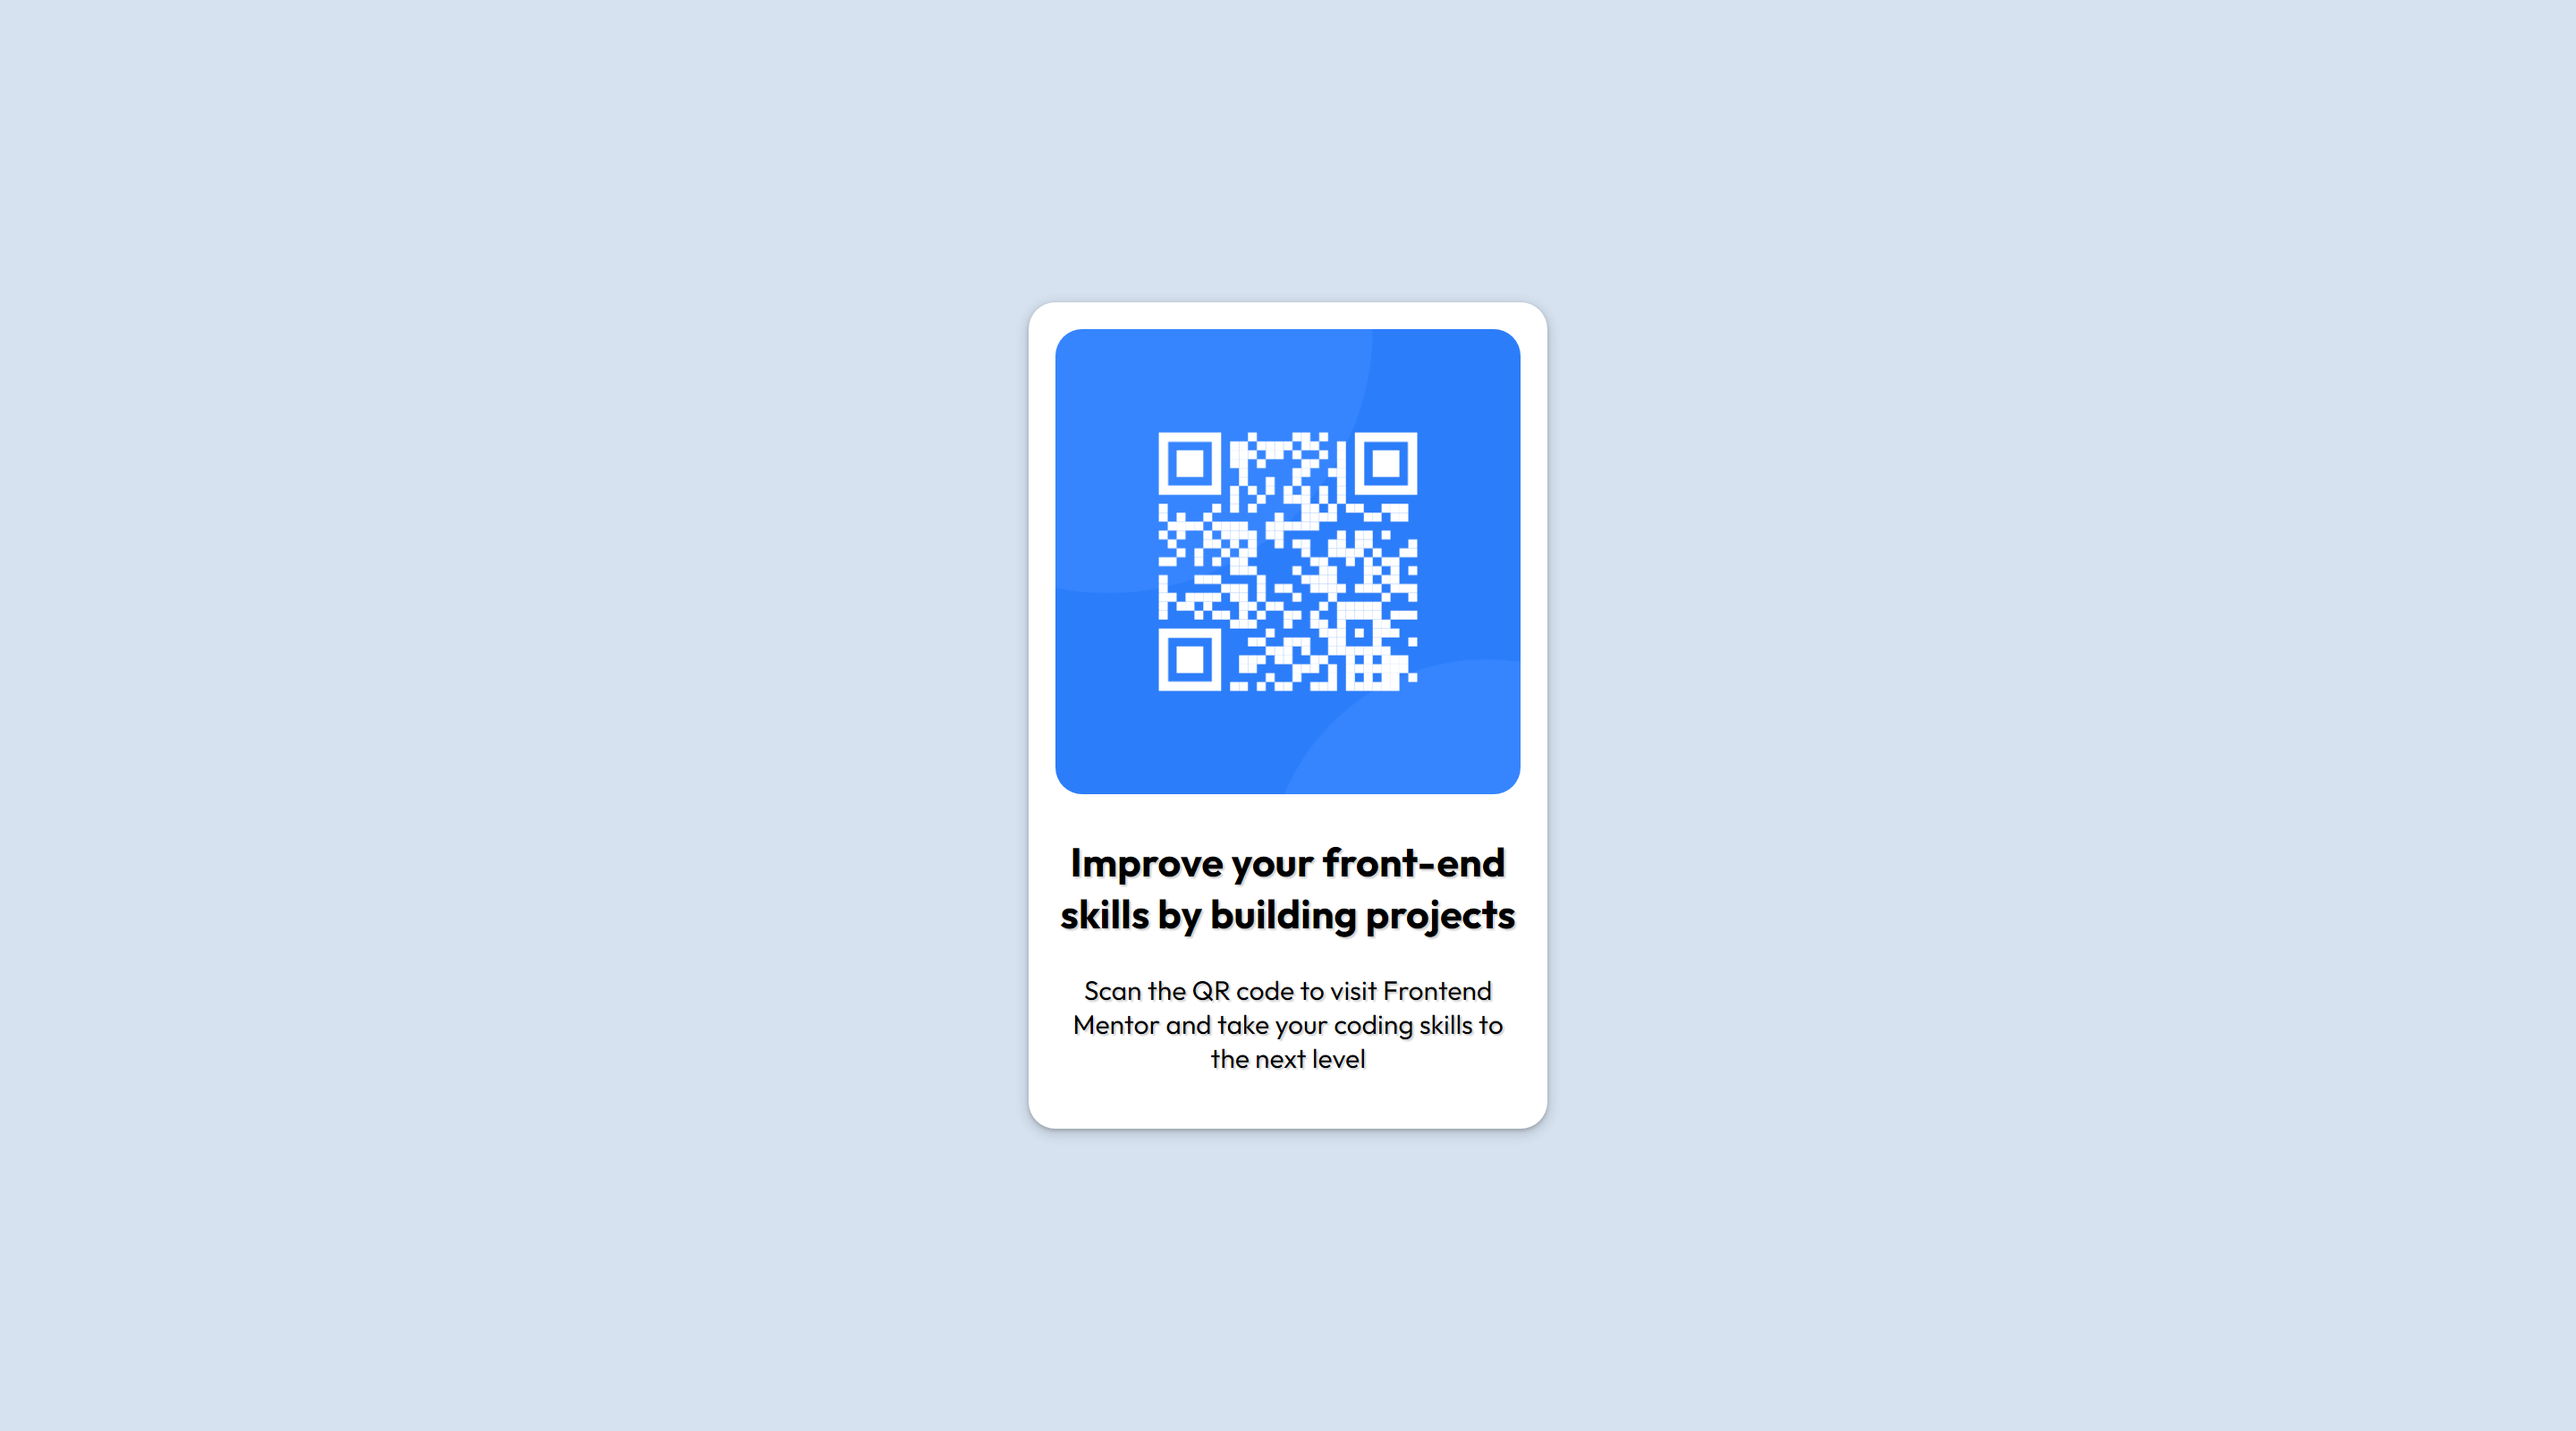
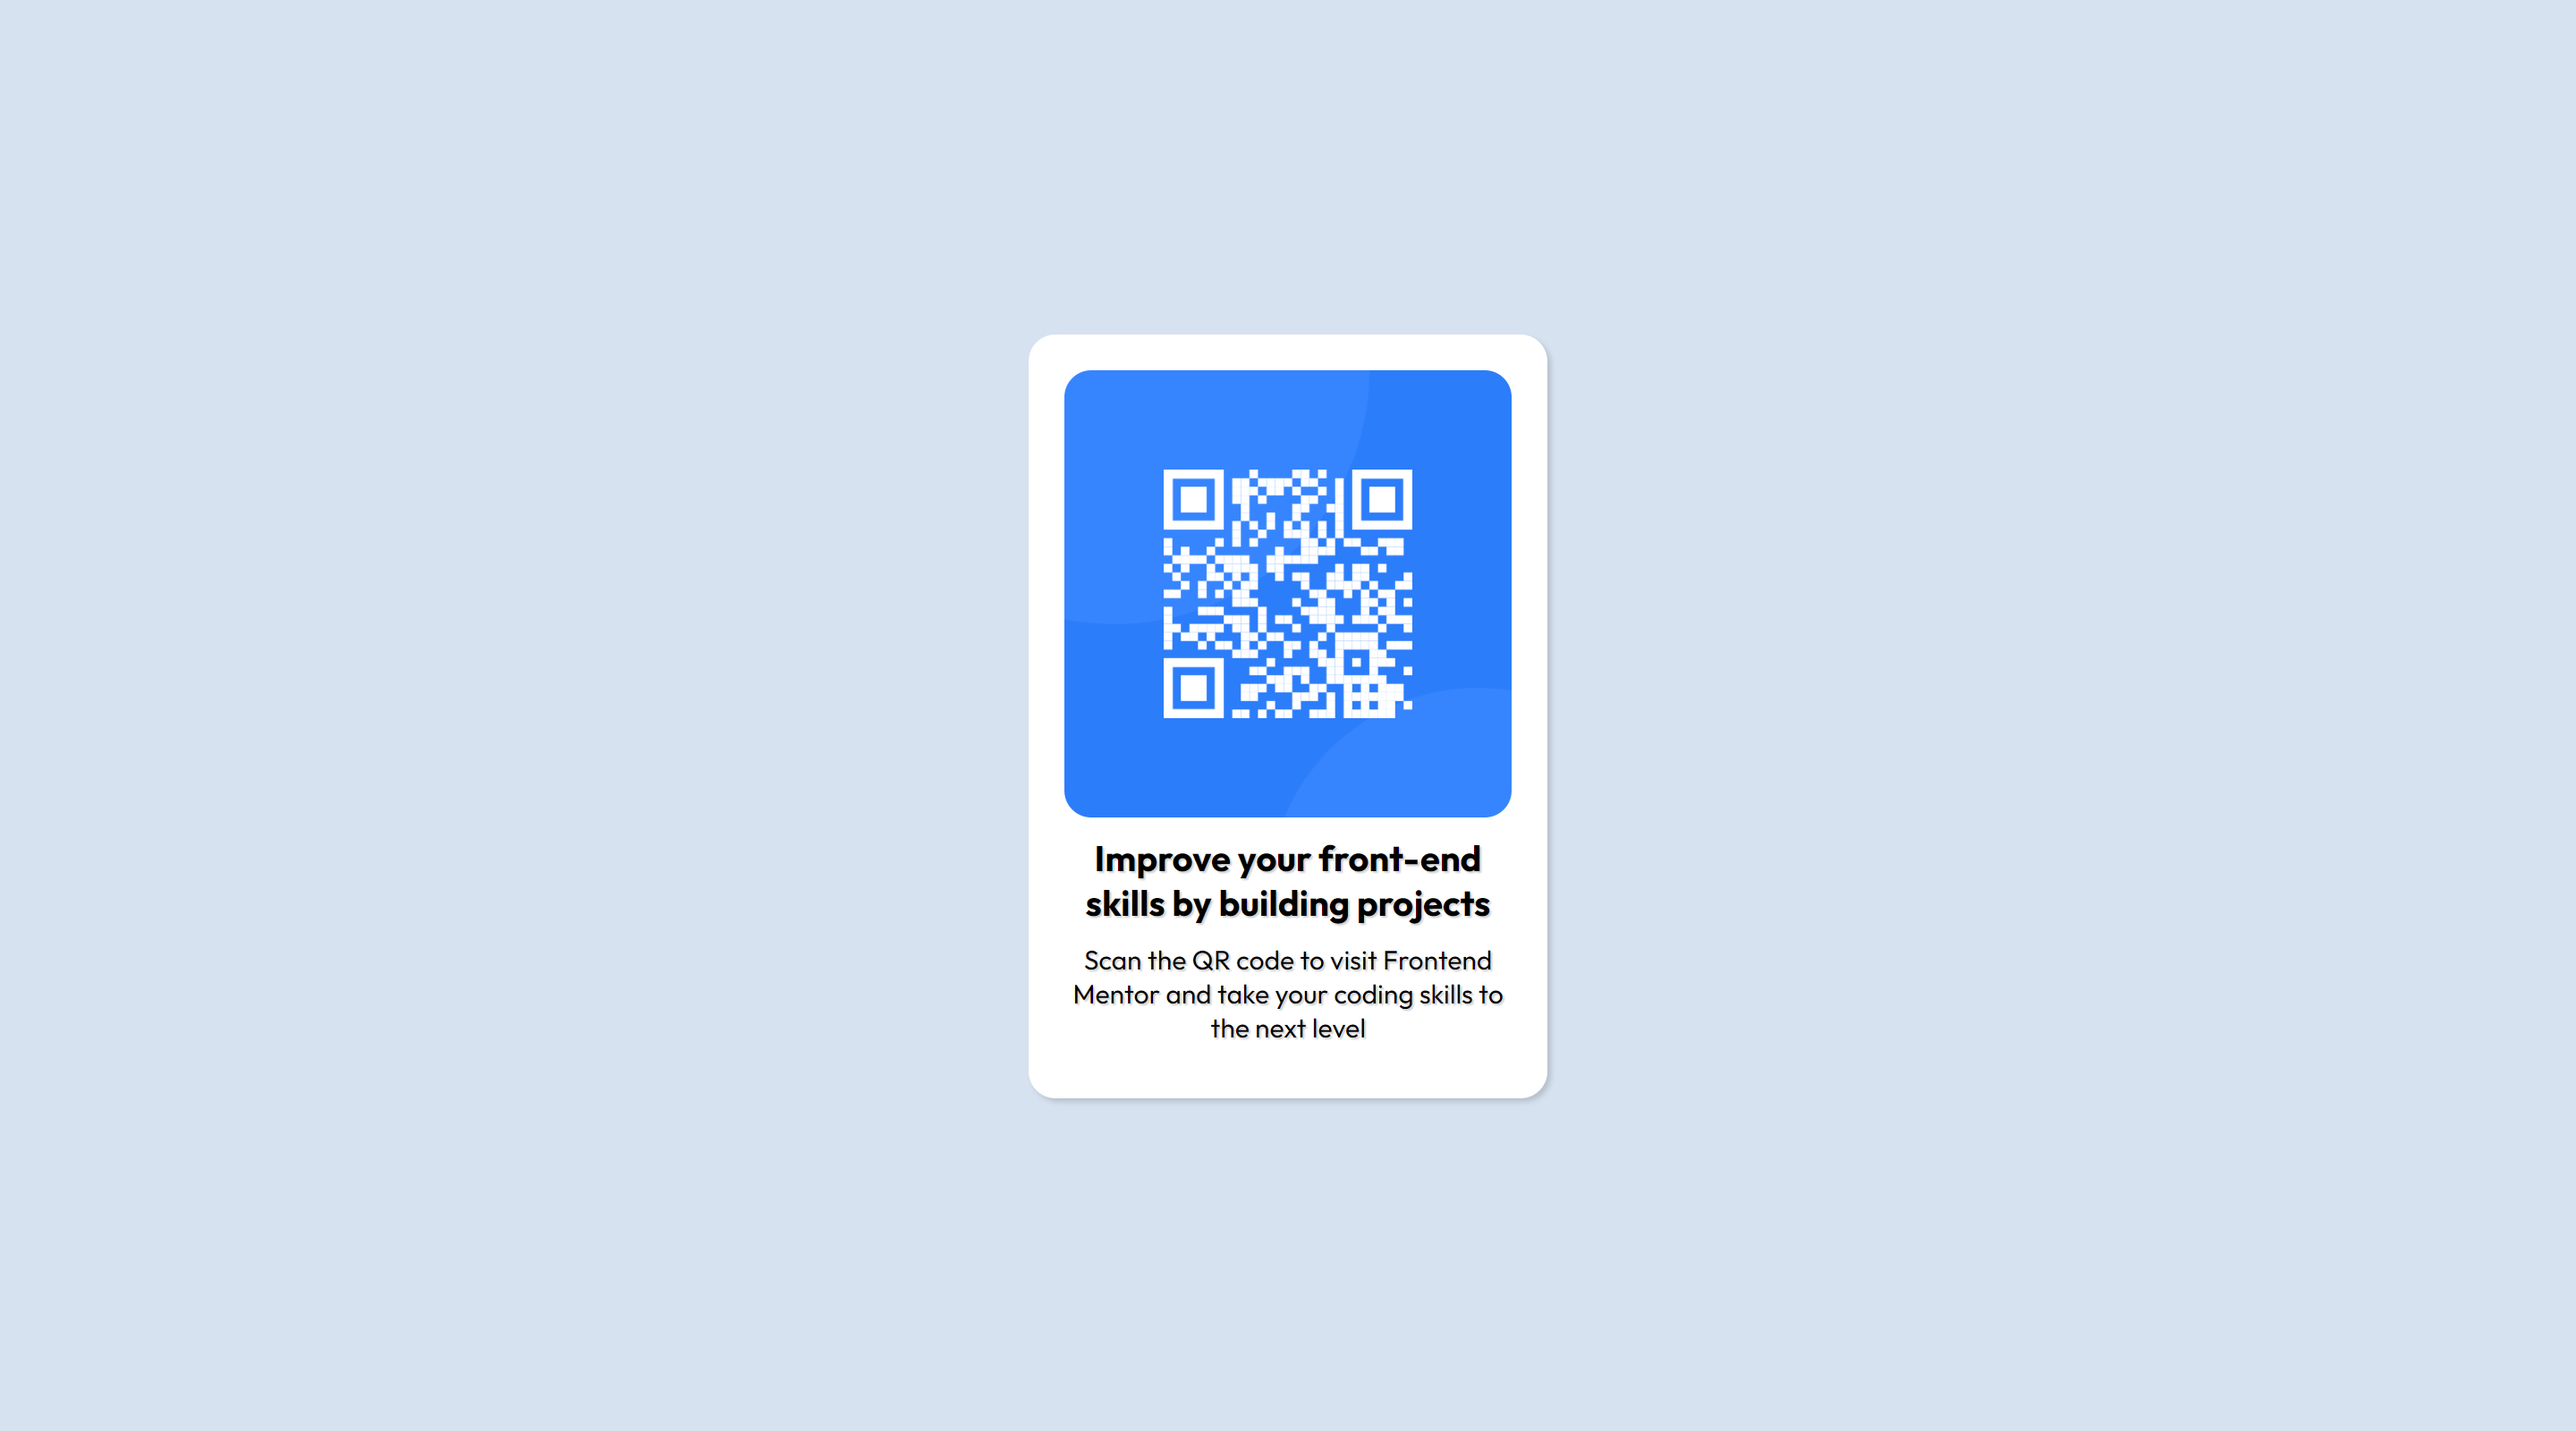
update styles

Changed region(s): [[0.375, 0.1875, 0.625, 0.8125]]

diff --git a/index.html b/index.html
@@ -1,43 +1,43 @@
 <!DOCTYPE html>
 <html lang="en">
-  <head>
-    <meta charset="UTF-8" />
-    <meta name="viewport" content="width=device-width, initial-scale=1" />
-    <meta name="description" content="QR code component solution - Frontend Mentor">
-    <title>QR code component</title>
-    <link
-      rel="icon"
-      type="image/png"
-      sizes="32x32"
-      href="./images/favicon-32x32.png"
-    />
+<head>
+  <meta charset="UTF-8"/>
+  <meta content="width=device-width, initial-scale=1" name="viewport"/>
+  <meta content="QR code component solution - Frontend Mentor" name="description">
+  <title>QR code component</title>
+  <link
+    href="./images/favicon-32x32.png"
+    rel="icon"
+    sizes="32x32"
+    type="image/png"
+  />
 
-    <link rel="preconnect" href="https://fonts.googleapis.com" />
-    <link rel="preconnect" href="https://fonts.gstatic.com" crossorigin />
-    <link
-      href="https://fonts.googleapis.com/css2?family=Outfit:wght@400;700&display=swap"
-      rel="stylesheet"
+  <link href="https://fonts.googleapis.com" rel="preconnect"/>
+  <link crossorigin href="https://fonts.gstatic.com" rel="preconnect"/>
+  <link
+    href="https://fonts.googleapis.com/css2?family=Outfit:wght@400;700&display=swap"
+    rel="stylesheet"
+  />
+  <link href="./styles.css" rel="stylesheet"/>
+</head>
+<body>
+<section class="qr-card">
+  <div class="qr-card__image-wrapper">
+    <img
+      alt="qr code"
+      class="qr-card__image"
+      src="./images/image-qr-code.png"
     />
-    <link rel="stylesheet" href="./styles.css" />
-  </head>
-  <body>
-    <section class="qr-card">
-      <div class="qr-card__image-wrapper">
-        <img
-          src="./images/image-qr-code.png"
-          class="qr-card__image"
-          alt="qr code"
-        />
-      </div>
-      <article class="qr-card__content">
-        <h2 class="qr-card__header">
-          Improve your front-end skills by building projects
-        </h2>
-        <p class="qr-card__description">
-          Scan the QR code to visit Frontend Mentor and take your coding skills
-          to the next level
-        </p>
-      </article>
-    </section>
-  </body>
+  </div>
+  <article class="qr-card__content">
+    <header class="qr-card__header">
+      Improve your front-end skills by building projects
+    </header>
+    <p class="qr-card__description">
+      Scan the QR code to visit Frontend Mentor and take your coding skills
+      to the next level
+    </p>
+  </article>
+</section>
+</body>
 </html>

diff --git a/styles.css b/styles.css
@@ -19,7 +19,6 @@
   box-sizing: border-box;
 }
 
-
 body {
   background-color: var(--light-grey);
 
@@ -40,12 +39,11 @@ body {
   border-radius: var(--radius);
   background-color: white;
 
-  box-shadow: rgba(60, 64, 67, 0.3) 0px 1px 2px 0px, rgba(60, 64, 67, 0.15) 0px 2px 6px 2px;
+  box-shadow: rgba(0, 0, 0, 0.15) 2px 2px 3px;
   text-shadow: 1px 1px 1px #00000030;
 
-  
-  width: 290px;
-  padding: 15px;
+  max-width: 290px;
+  padding: 20px;
 
   display: flex;
   align-items: center;
@@ -54,17 +52,25 @@ body {
 
 .qr-card__image {
   border-radius: var(--radius);
+
   width: 100%;
   height: 100%;
+
+  display: block;
   object-fit: fill;
 }
 
 .qr-card__content {
   text-align: center;
-  max-width: 100%;
   word-wrap: break-word;
 }
 
 .qr-card__header {
+  font-size: 1.25rem;
   font-weight: var(--fw-bold);
+  margin: 10px 0;
+}
+
+.qr-card__description {
+  margin: 10px 0;
 }
